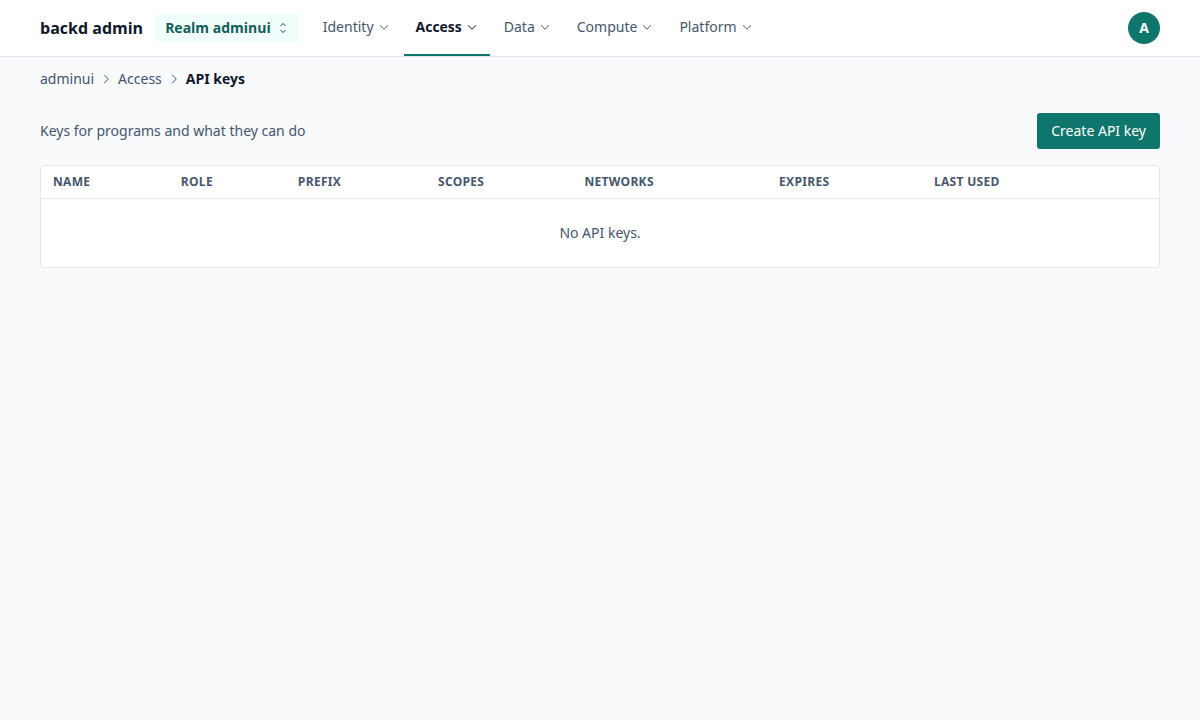
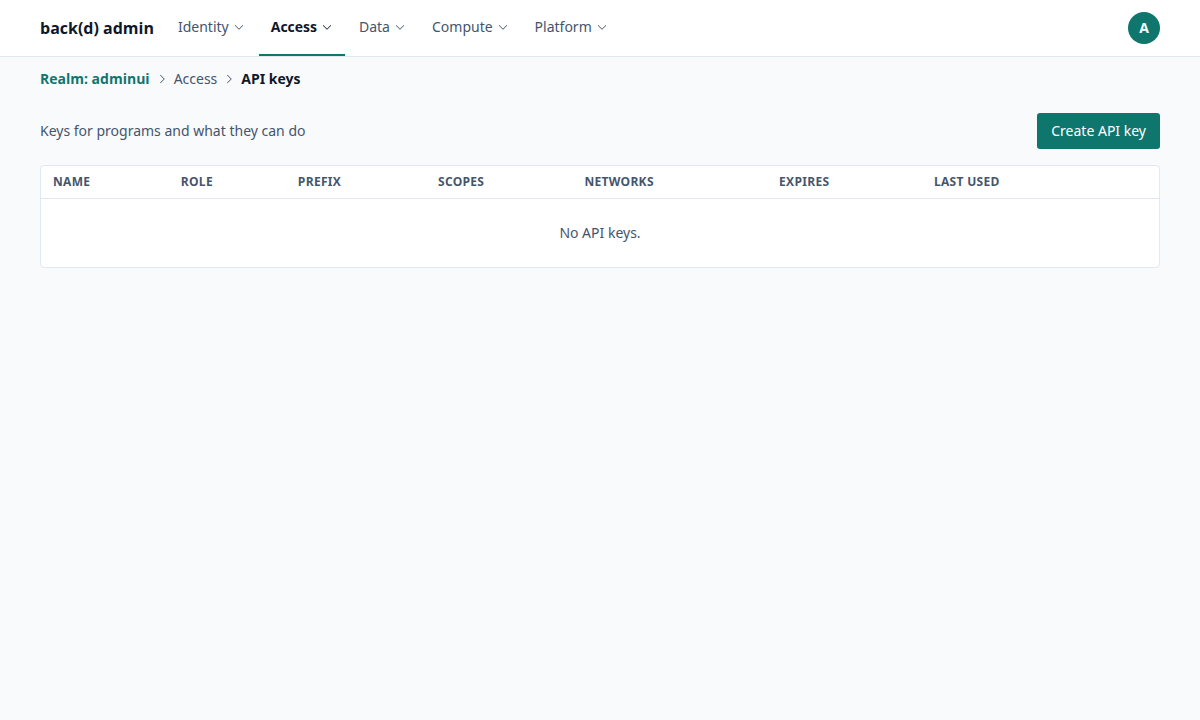
Admin UI: one sign-in form, realm in the breadcrumb, clearer toasts
Sign-in takes email, realm and password (realm from the address, else the last one used); the realm menu goes and the breadcrumb starts with Realm: <name> in the accent colour. The account menu aligns right, the title reads back(d) admin, toasts move under the bar with icons, errors stay until dismissed, and push tests, OpenAPI downloads and finished schema checks now confirm.

Changed region(s): [[0.0617, 0.0306, 0.5242, 0.0611], [0.0308, 0.0917, 0.2467, 0.1222], [0.555, 0.0306, 0.6167, 0.0611]]

diff --git a/ui/admin/src/views/SignInView.vue b/ui/admin/src/views/SignInView.vue
@@ -1,6 +1,6 @@
 <script setup lang="ts">
 import { AuthenticationError, NetworkError } from 'backd-js'
-import { ref } from 'vue'
+import { ref, watch } from 'vue'
 import { useI18n } from 'vue-i18n'
 import { useRoute, useRouter } from 'vue-router'
 import AppAlert from '@/components/AppAlert.vue'
@@ -8,16 +8,21 @@ import AppButton from '@/components/AppButton.vue'
 import TextField from '@/components/TextField.vue'
 import LocaleSwitch from '@/components/LocaleSwitch.vue'
 import ThemeSwitch from '@/components/ThemeSwitch.vue'
+import { lastRealm, rememberRealm, validRealm } from '@/lib/realm'
 import { safeNext } from '@/lib/redirect'
 import { NotAdminError, useSession } from '@/stores/session'
 
-const props = defineProps<{ realm: string }>()
+// The realm comes from the address when it names one, else from the last sign-in; it is a field.
+const props = defineProps<{ realm?: string }>()
 const { t } = useI18n()
 const session = useSession()
 const router = useRouter()
 const route = useRoute()
 
 const email = ref('')
+const realm = ref(props.realm ?? lastRealm())
+const realmInvalid = ref(false)
+watch(() => props.realm, (r) => { if (r) realm.value = r })
 const password = ref('')
 const keep = ref(false)
 const busy = ref(false)
@@ -31,13 +36,17 @@ const ticked = ref<Record<string, boolean>>({})
 const allTicked = () => (session.step?.consents ?? []).every((c) => ticked.value[c.name])
 
 // Only the realm's own pages are followed after signing in.
-const next = () => safeNext(route.query.next, props.realm)
+const next = () => safeNext(route.query.next, realm.value)
 
 async function submit() {
+  realm.value = realm.value.trim().toLowerCase()
+  realmInvalid.value = !validRealm(realm.value)
+  if (realmInvalid.value) return
   busy.value = true
   error.value = ''
   try {
-    const result = await session.signIn(props.realm, email.value.trim(), password.value, keep.value)
+    rememberRealm(realm.value)
+    const result = await session.signIn(realm.value, email.value.trim(), password.value, keep.value)
     password.value = ''
     ticked.value = {}
     if (result === 'done') await router.replace(next())
@@ -127,11 +136,7 @@ function cancel() {
         <ThemeSwitch />
       </div>
     </div>
-    <div class="rounded-md bg-brand-50 px-3 py-2 text-brand-800 dark:bg-brand-800 dark:text-brand-50" data-testid="realm-badge">
-      <span class="text-xs uppercase tracking-wide">{{ t('realm.label') }}</span>
-      <p class="text-lg font-semibold">{{ realm }}</p>
-    </div>
-    <h1 class="text-xl font-semibold">{{ t('signIn.title', { realm }) }}</h1>
+    <h1 class="text-xl font-semibold">{{ t('signIn.title') }}</h1>
     <AppAlert v-if="session.ended">{{ t(`signIn.ended.${session.ended}`) }}</AppAlert>
     <AppAlert v-if="error" kind="error">{{ error }}</AppAlert>
     <section v-if="recovery.length" class="space-y-3" aria-labelledby="recovery-h">
@@ -178,6 +183,7 @@ function cancel() {
     </section>
     <form v-else class="space-y-4" @submit.prevent="submit">
       <TextField v-model="email" type="email" :label="t('signIn.email')" autocomplete="username" required />
+      <TextField v-model="realm" :label="t('realm.label')" autocomplete="organization" required :error="realmInvalid ? t('realm.invalid') : undefined" data-testid="realm-field" />
       <TextField v-model="password" type="password" :label="t('signIn.password')" autocomplete="current-password" required />
       <div>
         <label class="flex items-center gap-2 text-sm">
@@ -186,8 +192,9 @@ function cancel() {
         </label>
         <p class="mt-1 text-xs text-slate-600 dark:text-slate-400">{{ t('signIn.keepHelp') }}</p>
       </div>
-      <AppButton type="submit" :busy="busy">{{ busy ? t('signIn.submitting') : t('signIn.submit') }}</AppButton>
+      <div class="flex justify-end">
+        <AppButton type="submit" :busy="busy">{{ busy ? t('signIn.submitting') : t('signIn.submit') }}</AppButton>
+      </div>
     </form>
-    <RouterLink :to="{ name: 'realm' }" class="text-sm underline">{{ t('signIn.otherRealm') }}</RouterLink>
   </main>
 </template>

diff --git a/ui/admin/e2e/nav.spec.ts b/ui/admin/e2e/nav.spec.ts
@@ -1,6 +1,6 @@
 import AxeBuilder from '@axe-core/playwright'
 import { expect, test } from './fixtures'
-import { go, navLabels } from './nav'
+import { go, inAccount, navLabels } from './nav'
 import { REALM, users } from './users'
 
 const main = (page: import('@playwright/test').Page) => page.getByRole('navigation', { name: 'Main' })
@@ -72,30 +72,28 @@ test('the account menu holds who is signed in, language, theme and the way out',
   await expect(menu).toHaveCount(0)
 })
 
-test('the realm menu shows the realm and leads to the page that opens another', async ({ page, signIn }) => {
+test('the realm is the first part of the breadcrumb, and there is no menu to change it', async ({ page, signIn }) => {
   await signIn('admin')
-  const realm = page.getByTestId('realm-badge')
-  await expect(realm).toContainText(`Realm ${REALM}`)
-  await realm.click()
-  await page.getByRole('link', { name: 'Open another realm' }).click()
-  await expect(page.getByRole('heading', { name: 'Choose a realm' })).toBeVisible()
+  await expect(page.getByTestId('realm-crumb')).toHaveText(`Realm: ${REALM}`)
+  await expect(page.getByTestId('realm-badge')).toHaveCount(0)
+  await inAccount(page, () => expect(page.getByRole('button', { name: 'Sign out' })).toBeVisible())
 })
 
 test('the breadcrumb says where you are and every part with a page leads there', async ({ page, signIn }) => {
   await signIn('admin', { keep: true })
   const crumbs = page.getByRole('navigation', { name: 'Breadcrumb' })
-  await expect(crumbs).toHaveText(new RegExp(`${REALM}\\s*Identity\\s*Overview`))
+  await expect(crumbs).toHaveText(new RegExp(`Realm: ${REALM}\\s*Identity\\s*Overview`))
   await page.goto(`/_ui/r/${REALM}/data/main/notes`)
-  await expect(crumbs.getByRole('listitem')).toHaveText([REALM, 'Data', 'main', 'notes'])
+  await expect(crumbs.getByRole('listitem')).toHaveText([`Realm: ${REALM}`, 'Data', 'main', 'notes'])
   await expect(crumbs.getByText('notes')).toHaveAttribute('aria-current', 'page')
-  await expect(page).toHaveTitle('notes · backd admin')
+  await expect(page).toHaveTitle('notes · back(d) admin')
   await crumbs.getByRole('link', { name: 'Data', exact: true }).click()
   await expect(page).toHaveURL(new RegExp(`/_ui/r/${REALM}/data$`))
   // A group with another name leads to its first page; the realm to the overview.
   await page.goto(`/_ui/r/${REALM}/audit`)
   await crumbs.getByRole('link', { name: 'Platform' }).click()
   await expect(page).toHaveURL(new RegExp(`/_ui/r/${REALM}/audit$`))
-  await crumbs.getByRole('link', { name: REALM }).click()
+  await crumbs.getByRole('link', { name: `Realm: ${REALM}` }).click()
   await expect(page).toHaveURL(new RegExp(`/_ui/r/${REALM}$`))
 })
 
@@ -104,7 +102,7 @@ test('a user and an organization are named in the breadcrumb', async ({ page, si
   await go(page, 'Users')
   await page.getByRole('link', { name: users.viewer }).click()
   await expect(page.getByRole('navigation', { name: 'Breadcrumb' }).getByText(users.viewer)).toHaveAttribute('aria-current', 'page')
-  await expect(page).toHaveTitle(`${users.viewer} · backd admin`)
+  await expect(page).toHaveTitle(`${users.viewer} · back(d) admin`)
 })
 
 test.describe('a narrow screen', () => {

diff --git a/ui/admin/e2e/signin.spec.ts b/ui/admin/e2e/signin.spec.ts
@@ -1,15 +1,15 @@
 import AxeBuilder from '@axe-core/playwright'
 import { expect, test } from './fixtures'
-import { REALM, users } from './users'
+import { PASSWORD, REALM, users } from './users'
 import { setTheme, signOut } from './nav'
 
 test('a deep link to a protected page asks to sign in, then comes back', async ({ page, signIn }) => {
   await page.goto(`/_ui/r/${REALM}`)
   await expect(page).toHaveURL(new RegExp(`/_ui/r/${REALM}/signin`))
-  await expect(page.getByTestId('realm-badge')).toContainText(REALM)
+  await expect(page.getByLabel('Realm')).toHaveValue(REALM)
   await signIn('admin')
   await expect(page).toHaveURL(new RegExp(`/_ui/r/${REALM}$`))
-  await expect(page.getByTestId('realm-badge')).toContainText(`Realm ${REALM}`)
+  await expect(page.getByTestId('realm-crumb')).toHaveText(`Realm: ${REALM}`)
 })
 
 test('unknown /_ui/ paths fall back to the app, and the realm is validated', async ({ page }) => {
@@ -69,7 +69,7 @@ test('the token stays in memory unless the tab opts in', async ({ page, signIn }
 test('opting in keeps the session across a reload, in this tab only', async ({ page, signIn }) => {
   await signIn('admin', { keep: true })
   await expect(page.getByTestId('level')).toBeVisible()
-  expect(await page.evaluate(() => Object.keys(localStorage).filter((k) => k !== 'backd-admin:theme'))).toEqual([])
+  expect(await page.evaluate(() => Object.keys(localStorage).filter((k) => k !== 'backd-admin:theme' && k !== 'backd-admin-realm'))).toEqual([])
   await page.reload()
   await expect(page.getByTestId('level')).toBeVisible()
 })
@@ -120,4 +120,21 @@ test('the theme switch applies and the page has no accessibility violations', as
     await expect(page.locator('html')).toHaveClass(theme === 'Dark' ? /dark/ : /^(?!.*dark).*$/)
     expect((await new AxeBuilder({ page }).analyze()).violations).toEqual([])
   }
+})
+
+test('one form signs in with the email, the realm and the password, and the realm is remembered', async ({ page }) => {
+  await page.goto('/_ui/')
+  await expect(page.getByLabel('Realm')).toHaveValue('')
+  await page.getByLabel('Email').fill(users.admin)
+  await page.getByLabel('Realm').fill('Bad Realm!')
+  await page.getByLabel('Password').fill(PASSWORD)
+  await page.getByRole('button', { name: 'Sign in' }).click()
+  await expect(page.getByText('A realm name has lowercase letters')).toBeVisible()
+  await page.getByLabel('Realm').fill(REALM)
+  await page.getByRole('button', { name: 'Sign in' }).click()
+  await expect(page.getByRole('navigation', { name: 'Main' })).toBeVisible()
+  await expect(page).toHaveURL(new RegExp(`/_ui/r/${REALM}$`))
+  await signOut(page)
+  await page.goto('/_ui/')
+  await expect(page.getByLabel('Realm')).toHaveValue(REALM)
 })

diff --git a/ui/admin/src/components/ToastHost.vue b/ui/admin/src/components/ToastHost.vue
@@ -1,4 +1,5 @@
 <script setup lang="ts">
+import { PhCheckCircle, PhWarningCircle } from '@phosphor-icons/vue'
 import { useI18n } from 'vue-i18n'
 import { useToasts } from '@/stores/toasts'
 
@@ -7,14 +8,18 @@ const toasts = useToasts()
 </script>
 
 <template>
-  <div class="fixed right-4 bottom-4 z-50 flex w-[min(22rem,92vw)] flex-col gap-2" aria-live="polite">
+  <!-- Under the bar, where the eye is after pressing a button at the top of a page. -->
+  <div class="fixed top-16 right-4 z-50 flex w-[min(24rem,92vw)] flex-col gap-2" aria-live="polite">
     <div
       v-for="toast in toasts.items"
       :key="toast.id"
       :role="toast.kind === 'error' ? 'alert' : 'status'"
-      class="flex items-start gap-3 rounded-md border px-3 py-2 text-sm shadow"
-      :class="toast.kind === 'error' ? 'border-red-300 bg-red-50 text-red-900 dark:border-red-800 dark:bg-red-950 dark:text-red-100' : 'border-slate-300 bg-white text-slate-900 dark:border-slate-700 dark:bg-slate-900 dark:text-slate-100'"
+      class="flex items-start gap-3 rounded-md border px-3 py-2.5 text-sm shadow-lg"
+      :class="toast.kind === 'error' ? 'border-red-300 bg-red-50 text-red-900 dark:border-red-800 dark:bg-red-950 dark:text-red-100' : 'border-brand-700 bg-white text-slate-900 dark:border-brand-400 dark:bg-slate-900 dark:text-slate-100'"
+      data-testid="toast"
     >
+      <PhWarningCircle v-if="toast.kind === 'error'" :size="18" class="mt-px shrink-0" aria-hidden="true" />
+      <PhCheckCircle v-else :size="18" class="mt-px shrink-0 text-brand-700 dark:text-brand-400" aria-hidden="true" />
       <span class="flex-1">{{ toast.text }}</span>
       <button type="button" class="underline" @click="toasts.dismiss(toast.id)">{{ t('common.dismiss') }}</button>
     </div>

diff --git a/ui/admin/src/components/AppBreadcrumb.vue b/ui/admin/src/components/AppBreadcrumb.vue
@@ -12,7 +12,9 @@ const { t } = useI18n()
   <nav :aria-label="t('breadcrumb.label')" class="mx-auto max-w-6xl px-4 pt-3 text-sm text-slate-600 dark:text-slate-400">
     <ol class="flex flex-wrap items-center gap-x-1.5 gap-y-1">
       <li v-for="(c, i) in crumbs" :key="i" class="flex items-center gap-1.5">
-        <RouterLink v-if="c.to" :to="c.to" class="hover:text-slate-900 hover:underline dark:hover:text-slate-100">{{ c.label }}</RouterLink>
+        <!-- The first part is the realm: in the accent colour, with its name said. -->
+        <RouterLink v-if="c.to && i === 0" :to="c.to" class="font-semibold text-brand-700 hover:underline dark:text-brand-400" data-testid="realm-crumb">{{ t('realm.label') }}: {{ c.label }}</RouterLink>
+        <RouterLink v-else-if="c.to" :to="c.to" class="hover:text-slate-900 hover:underline dark:hover:text-slate-100">{{ c.label }}</RouterLink>
         <span v-else :aria-current="i === crumbs.length - 1 ? 'page' : undefined" :class="i === crumbs.length - 1 ? 'font-semibold text-slate-900 dark:text-slate-100' : ''">{{ c.label }}</span>
         <PhCaretRight v-if="i < crumbs.length - 1" :size="12" aria-hidden="true" />
       </li>

diff --git a/ui/admin/src/lib/schemaChecks.ts b/ui/admin/src/lib/schemaChecks.ts
@@ -36,7 +36,10 @@ export function useSchemaChecks(onFinished?: () => void) {
     } catch (e) {
       error.value = errorText(e, t('checks.loadFailed'))
     }
-    if (wasRunning && running.value === null) onFinished?.()
+    if (wasRunning && running.value === null) {
+      toasts.push(t('checks.finished'))
+      onFinished?.()
+    }
     clearTimeout(timer)
     if (!stopped && running.value !== null) timer = setTimeout(refresh, POLL_MS)
   }
@@ -48,6 +51,11 @@ export function useSchemaChecks(onFinished?: () => void) {
       lastStarted.value = await admin.dataChecks.start(scope)
       toasts.push(t('checks.started'))
       await refresh()
+      // A small collection can be done before the first answer: the report is there to read.
+      if (running.value === null) {
+        toasts.push(t('checks.finished'))
+        onFinished?.()
+      }
       return true
     } catch (e) {
       toasts.push(errorText(e, t('common.unexpected')), 'error')

diff --git a/ui/admin/src/views/FunctionsView.vue b/ui/admin/src/views/FunctionsView.vue
@@ -74,8 +74,9 @@ async function downloadOpenAPI(client: boolean) {
   try {
     const doc = client ? await admin.clientOpenapi() : await admin.openapi()
     downloadText(`${props.realm}-openapi${client ? '-client' : '-admin'}.json`, JSON.stringify(doc, null, 2), 'application/json')
+    toasts.push(t('functions.openapi.done'))
   } catch (e) {
-    toasts.push(errorText(e, t('common.unexpected')))
+    toasts.push(errorText(e, t('common.unexpected')), 'error')
   } finally {
     downloading.value = false
   }
@@ -87,7 +88,7 @@ async function togglePause(name: string) {
     paused.value = { ...paused.value, [name]: s.paused }
     toasts.push(t(s.paused ? 'functions.pause.done' : 'functions.resume.done', { function: name }))
   } catch (e) {
-    toasts.push(errorText(e, t('common.unexpected')))
+    toasts.push(errorText(e, t('common.unexpected')), 'error')
   } finally {
     pausing.value = ''
   }

diff --git a/ui/admin/src/router/index.ts b/ui/admin/src/router/index.ts
@@ -12,7 +12,7 @@ declare module 'vue-router' {
 }
 
 export const routes: RouteRecordRaw[] = [
-  { path: '/', name: 'realm', component: () => import('@/views/RealmView.vue') },
+  { path: '/', name: 'realm', component: () => import('@/views/SignInView.vue') },
   { path: '/r/:realm/signin', name: 'signin', component: () => import('@/views/SignInView.vue'), props: true },
   { path: '/r/:realm/users', name: 'users', component: () => import('@/views/UsersView.vue'), props: true, meta: { auth: true, area: 'users' as const } },
   { path: '/r/:realm/users/:id', name: 'user', component: () => import('@/views/UserView.vue'), props: true, meta: { auth: true, area: 'users' as const } },

diff --git a/ui/admin/src/lib/realm.ts b/ui/admin/src/lib/realm.ts
@@ -1,6 +1,26 @@
 // Realm names as backd accepts them in URLs.
 export const REALM_PATTERN = /^[a-z0-9][a-z0-9_-]{0,62}$/
 
+const KEY = 'backd-admin-realm'
+
+/** The realm of the last sign-in, to pre-fill the form; a name, never a secret. */
+export function lastRealm(): string {
+  try {
+    const r = localStorage.getItem(KEY) ?? ''
+    return validRealm(r) ? r : ''
+  } catch {
+    return ''
+  }
+}
+
+export function rememberRealm(name: string) {
+  try {
+    localStorage.setItem(KEY, name)
+  } catch {
+    // storage refused: the form is just empty next time
+  }
+}
+
 export function validRealm(name: string): boolean {
   return REALM_PATTERN.test(name)
 }

diff --git a/ui/admin/src/components/AppShell.vue b/ui/admin/src/components/AppShell.vue
@@ -11,7 +11,6 @@ import AccountControls from './AccountControls.vue'
 import AccountMenu from './AccountMenu.vue'
 import AppBreadcrumb from './AppBreadcrumb.vue'
 import AppNav from './AppNav.vue'
-import RealmMenu from './RealmMenu.vue'
 
 const { t } = useI18n()
 const session = useSession()
@@ -50,7 +49,6 @@ watchEffect(() => {
         </template>
       </AppNav>
       <span class="shrink-0 font-semibold">{{ t('app.name') }}</span>
-      <RealmMenu />
       <div class="order-4 ml-auto hidden items-center min-[900px]:flex">
         <AccountMenu />
       </div>

diff --git a/ui/admin/e2e/language.spec.ts b/ui/admin/e2e/language.spec.ts
@@ -8,7 +8,7 @@ test.describe('a Spanish browser', () => {
 
   test('gets the interface in Spanish with no choice made', async ({ page }) => {
     await page.goto(`/_ui/r/${REALM}/signin`)
-    await expect(page.getByRole('heading', { name: `Inicia sesión en ${REALM}` })).toBeVisible()
+    await expect(page.getByRole('heading', { name: 'Inicia sesión' })).toBeVisible()
     await expect(page.locator('html')).toHaveAttribute('lang', 'es')
     await page.getByLabel('Correo electrónico').fill(users.admin)
     await page.getByLabel('Contraseña').fill(PASSWORD)

diff --git a/ui/admin/src/stores/toasts.ts b/ui/admin/src/stores/toasts.ts
@@ -11,7 +11,8 @@ export interface Toast {
 export const useToasts = defineStore('toasts', () => {
   const items = ref<Toast[]>([])
   let next = 1
-  function push(text: string, kind: Toast['kind'] = 'info', ms = 6000) {
+  // A confirmation goes away by itself; an error stays until it is dismissed, so it can't be missed.
+  function push(text: string, kind: Toast['kind'] = 'info', ms = kind === 'error' ? 0 : 6000) {
     const id = next++
     items.value.push({ id, kind, text })
     if (ms > 0) setTimeout(() => dismiss(id), ms)
